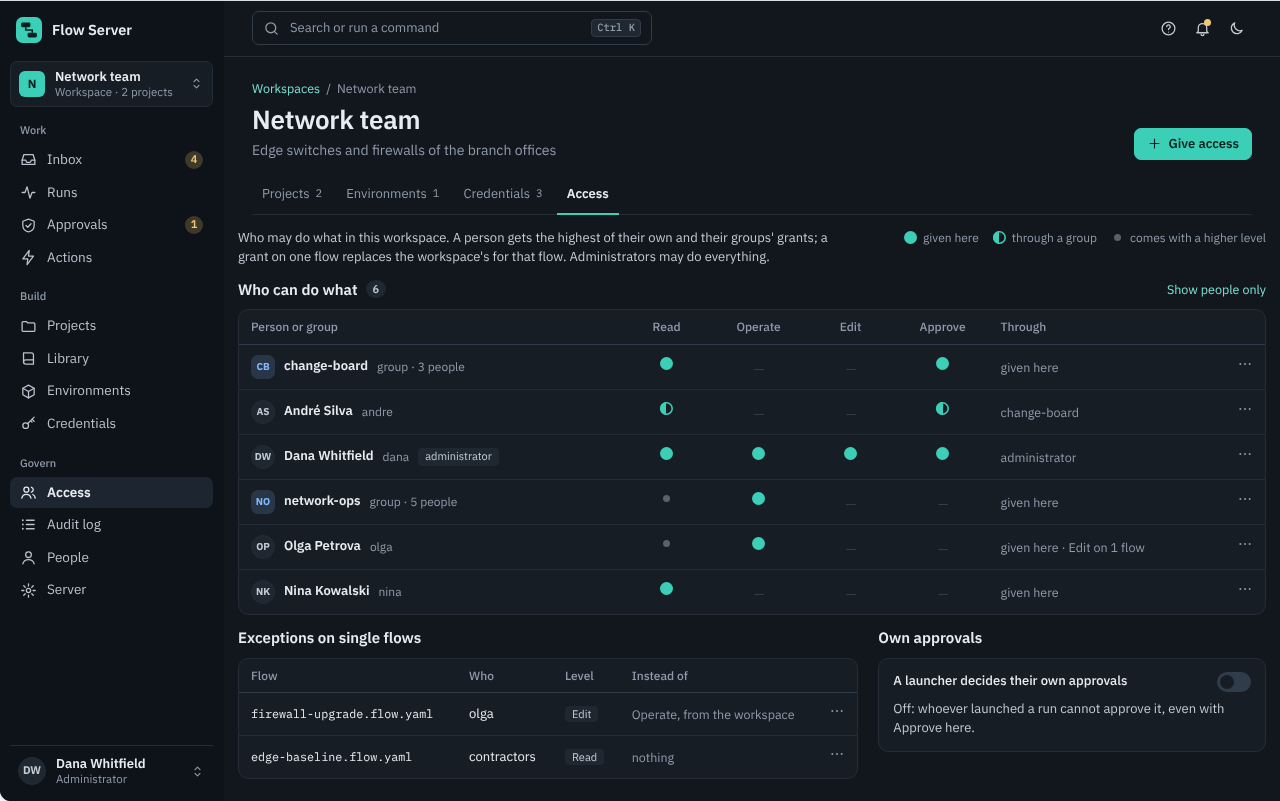
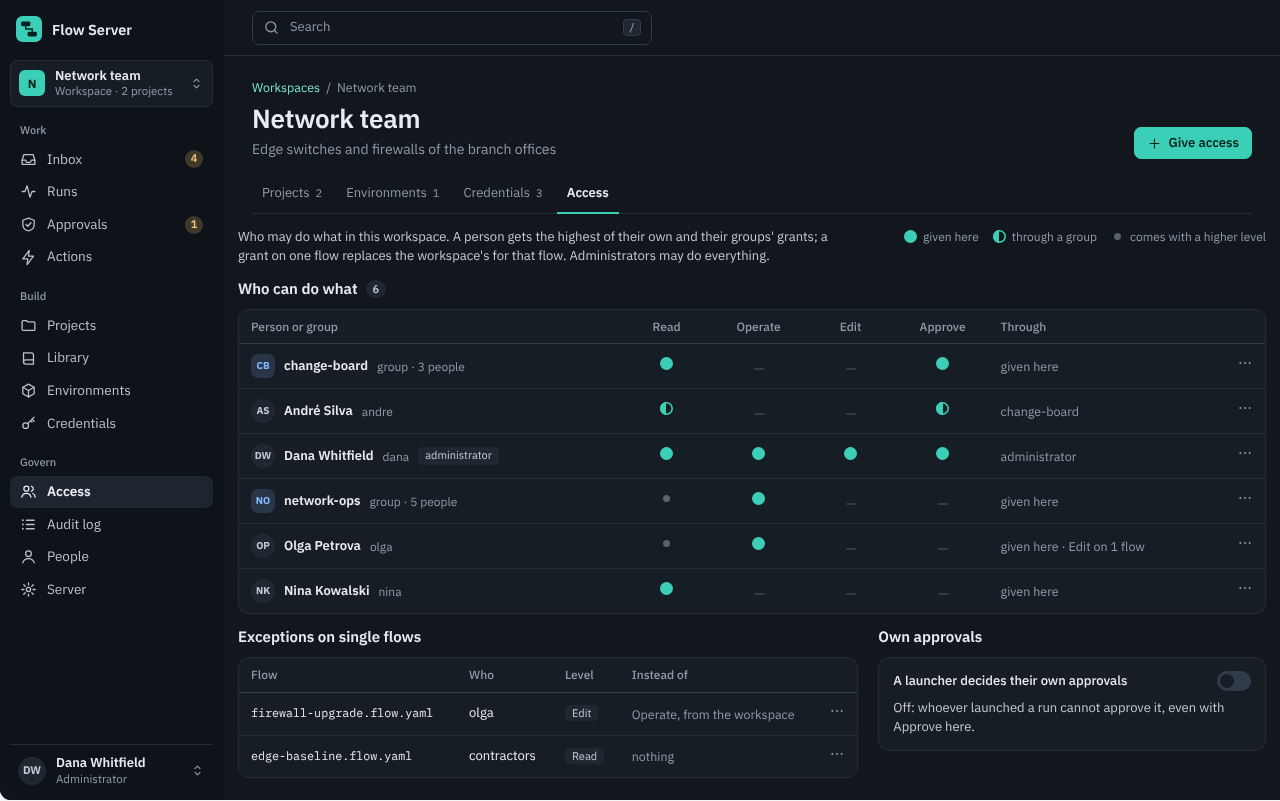
ADR-0039 after review: run mock-up on the workbench as built, palette as a mount option, quiet button with AFS-273, Work across workspaces an open question (AFS-268)

diff --git a/docs/adr/0039-control-room-3.md b/docs/adr/0039-control-room-3.md
@@ -75,26 +75,33 @@ The glyph is decoration: the word stays the accessible text.
 - **A real run** carries a solid "Real" badge with a bolt. **A check run** carries a dashed
   "Check" badge. Both appear in every run list's Mode column and on the run's header.
 - **A real run's header** has a hatched stripe along its top.
+- **What check means** is said as it is: Ansible's check mode. Tasks report what they would change,
+  and a task marked `check_mode: false` still runs, so the pages do not promise that nothing
+  changes.
 - **Launch** names the run it starts (§8).
 
-### 5. One set of buttons (S9, AFS-269)
+### 5. One set of buttons (S9)
 
-- **Primary:** one per view (`button.primary`).
-- **Secondary:** the default button.
-- **Quiet:** for the lesser actions of a row or a toolbar.
-- **Danger:** only for what deletes or stops.
+- **Primary:** one per view (`button.primary`). There today.
+- **Secondary:** the default button. There today.
+- **Quiet:** for the lesser actions of a row or a toolbar. It comes with AFS-273, where the rows'
+  menus first use it.
+- **Danger:** only for what deletes or stops. There today.
 - In a page head and in a toolbar everything is a button; a place to go there is `a.button`. Plain
   links stay in sentences and lists.
 - A button with a shortcut names it in its `title` and in `aria-keyshortcuts`.
 
 ### 6. One palette for page and canvas (S8, AFD-383 then AFS-270)
 
-- **Designer:** an embedding host may pass a palette (the `--vscode-*` colours the canvas reads)
-  with the mount configuration, and a new one when its theme changes. The canvas takes only names
-  it reads and values that are colours. Inside VS Code the palette is ignored. This is an
-  optional field and a new message, so older hosts and the protocol are unchanged.
-- **Server:** `viewer.ts` passes the page's `--canvas-*` roles. With the pinned designer
-  (1.2.0-rc.5) nothing changes, and the `viewer.css` fallbacks stay.
+- **Designer (AFD-383):** `mount(el, { palette })` takes the page's colours as values of the
+  `--vscode-*` variables the canvas reads, and `setPalette()` changes them (`undefined` takes them
+  back). Only colours are taken, in light and dark; high contrast keeps its own. It is a mount
+  option and a method, not a protocol message: the server's `viewer.ts` mounts the canvas in its
+  own frame, so nothing crosses `postMessage`. VS Code never calls `mount`, so it is unchanged.
+- **Server (AFS-270):** `viewer.ts` passes the page's `--canvas-*` roles at mount and calls
+  `setPalette?.()` when the theme changes. The pinned designer (1.2.0-rc.5) ignores `palette` and
+  has no `setPalette`, so nothing changes until a designer release carries AFD-383. The
+  `viewer.css` fallbacks stay.
 
 ### 7. Quiet tables (S7, AFS-273)
 
@@ -109,18 +116,23 @@ The glyph is decoration: the word stays the accessible text.
 
 ### 8. Pages that say what will happen
 
-- **Approvals (S5, AFS-271):**
-  - If you approve: the steps that follow the approval, and the hosts waiting at it.
-  - If you reject: where the hosts go.
+- **Approvals (S5, AFS-271):** the card already says which hosts wait, since when, when it times
+  out and who decides. It adds:
+  - If you approve: the steps that follow the approval.
+  - If you reject: where the hosts go, on the card before deciding (today the question after
+    Reject… says it).
   - Evidence: the last check run of the same launch configuration, and whether it was at the same
     commit.
-  - The timeout, and what happens then.
-  - This is shown wherever an approval is decided today: the Approvals page and the run page
-    (`RunApprovals`). The approval's API answer gains optional fields for it.
+  - What happens at the timeout.
+  - It is shown wherever an approval is decided today: the Approvals page, and on the run page the
+    side bar's Details view (`RunApprovals`, first in the view). The approval's API answer gains
+    optional fields for it.
+  - On a phone, Reject and Approve sit at the bottom of the screen.
 - **Launch (S6, AFS-272):**
   - Beside the form, "What will run", kept current: the flow, the commit, the steps, the hosts the
     targets match, the image, the credentials, the approvals ahead, the last run.
-  - Check or Real is a choice of two, each saying what it does.
+  - Check or Real is a choice of two, each saying what it does: Check is Ansible's check mode and
+    its approvals pass by themselves; Real changes the hosts and its approvals wait for a decision.
   - The button says "Launch check run" or "Launch real run". Ctrl+Enter launches.
 
 ### 9. Home is an inbox (S2, AFS-212)
@@ -137,7 +149,8 @@ The glyph is decoration: the word stays the accessible text.
 
 - **A workspace switcher** at the top of the side menu.
 - **Three groups:**
-  - Work: Home, Runs, Approvals, Actions. Across all workspaces.
+  - Work: Home, Runs, Approvals, Actions. Whether they follow the switcher or span every
+    workspace is open question 1; AFS-274 is not built until it is answered.
   - Build: Projects, Library, Environments, Credentials. In the chosen workspace.
   - Govern: Access, Audit log, People, Server. For administrators.
 - **Your name** opens one account menu: profile, access tokens, theme, help, sign out.
@@ -147,10 +160,18 @@ The glyph is decoration: the word stays the accessible text.
 
 ### 11. A run is one workbench (S3)
 
-The debug workbench (ADR-0038, AFS-265, AFS-266) already gives a run one place: the side bar, the
-toolbar over the canvas, the panel and the status line. Control Room 3 adds to it only the state
-glyph, the Real or Check badge, the real run's stripe and the canvas colours. It does not change
-`workbench.tsx` or `debugger.tsx`.
+The debug workbench (ADR-0038, AFS-265, AFS-266) already gives a run one place:
+
+- the side bar on the left: Variables, Watch, Hosts and Pause points on a debug run, and Details
+  on the run page;
+- the run's toolbar, which on a debug run is icon-only and floats over the canvas;
+- the panel under the canvas: Debug Console, Terminal and Problems;
+- the status line, the only place a pause reason is said.
+
+Control Room 3 keeps that layout. It adds the state's shape, the Real or Check badge and the real
+run's stripe in the head (AFS-269), and the page's colours on the canvas (AFS-270). An approval is
+decided in the side bar's Details view, where `RunApprovals` comes first; AFS-271 adds to that
+card. Nothing here changes `workbench.tsx` or `debugger.tsx`.
 
 ## Order of work
 
@@ -158,13 +179,22 @@ One branch and one pull request per ticket, each passing the gates and updating 
 CHANGELOG where people see a change:
 
 1. AFS-268: this record and the mock-ups.
-2. AFS-269: states, badges and buttons.
+2. AFS-269: states and badges.
 3. AFD-383 (designer), then a designer release, then AFS-270 (server).
 4. AFS-271: approvals.
 5. AFS-272: launch.
 6. AFS-212: inbox.
-7. AFS-273: tables.
+7. AFS-273: tables and the quiet button.
 8. AFS-274: the menu.
+
+## Open questions
+
+For the product owner. What depends on an answer is not built until then.
+
+1. **Work across workspaces (AFS-274).** Today Runs, Approvals and Actions list what a person may
+   see, and access is checked workspace by workspace. With a workspace switcher, should the Work
+   group follow the chosen workspace, or keep listing every workspace the person may see? If it
+   spans workspaces, the pages must say which workspace each row is in.
 
 ## Alternatives considered
 

diff --git a/docs/design/1.2/control-room-3/README.md b/docs/design/1.2/control-room-3/README.md
@@ -5,13 +5,21 @@ static mock-ups at 1280 × 800, drawn before the pages were built: where a page 
 differ, the page and the guide are right. Names, hosts and numbers are the guide's fictional sample
 workspace.
 
-| Mock-up                                  | What it shows                                                                                                                                                                                       |
-| ---------------------------------------- | --------------------------------------------------------------------------------------------------------------------------------------------------------------------------------------------------- |
-| ![](inbox-dark.png) ![](inbox-light.png) | Home as an inbox: the day in one sentence, four numbers, what needs you (each with its verb), running now, launch again, the latest runs with a state glyph and a Real or Check badge. The new menu |
-| ![](run-dark.png) ![](run-light.png)     | A real run waiting for a decision: the hatched stripe of a real run, the step strip, the canvas in the page's colours, the decision with what it lets happen and the evidence, the docked output    |
-| ![](launch-dark.png)                     | A launch configuration: the form, What will run kept current beside it, Check or Real as a choice, the button that names the run                                                                    |
-| ![](access-dark.png)                     | A workspace's access as a matrix (given here, through a group, comes with a higher level), grants on single flows, row menus                                                                        |
-| ![](phone-dark.png)                      | At phone width: an approval with Reject and Approve at the bottom, and an action's progress                                                                                                         |
+| Mock-up                                  | What it shows                                                                                                                                                                           |
+| ---------------------------------------- | --------------------------------------------------------------------------------------------------------------------------------------------------------------------------------------- |
+| ![](inbox-dark.png) ![](inbox-light.png) | Home as an inbox: the day in one sentence, four numbers, what needs you (each with its verb), running now, launch again, the latest runs with a state's shape and a Real or Check badge |
+| ![](run-dark.png) ![](run-light.png)     | A real run waiting for a decision, on the debug workbench as built: the side bar on the left (Details, with the approval first), the canvas, the Terminal panel and the status line     |
+| ![](launch-dark.png)                     | A launch configuration: the form, What will run kept current beside it, Check or Real as a choice, the button that names the run                                                        |
+| ![](access-dark.png)                     | A workspace's access as a matrix (given here, through a group, comes with a higher level), grants on single flows, row menus                                                            |
+| ![](phone-dark.png)                      | An approval at phone width, with Reject and Approve at the bottom of the screen                                                                                                         |
 
-The run page's side bar, toolbar and panel are the debug workbench's (ADR-0038, AFS-265, AFS-266);
-the mock-up shows only what Control Room 3 adds to it (the header, the state glyphs, the colours).
+What to build from each picture is what ADR-0039 decides, and nothing more:
+
+- **The run page** keeps the debug workbench's layout (AFS-265, AFS-266). From the run mock-up,
+  build only the head's state shape, the Real badge and the real run's stripe (AFS-269), the
+  canvas in the page's colours (AFS-270), and the approval card's next steps and evidence
+  (AFS-271).
+- **The side menu** (workspace switcher, Work / Build / Govern, the account at its end) is AFS-274.
+  Whether Work follows the switcher is the record's open question 1; it is not built until
+  answered.
+- **The top bar** is today's: the search box only.
